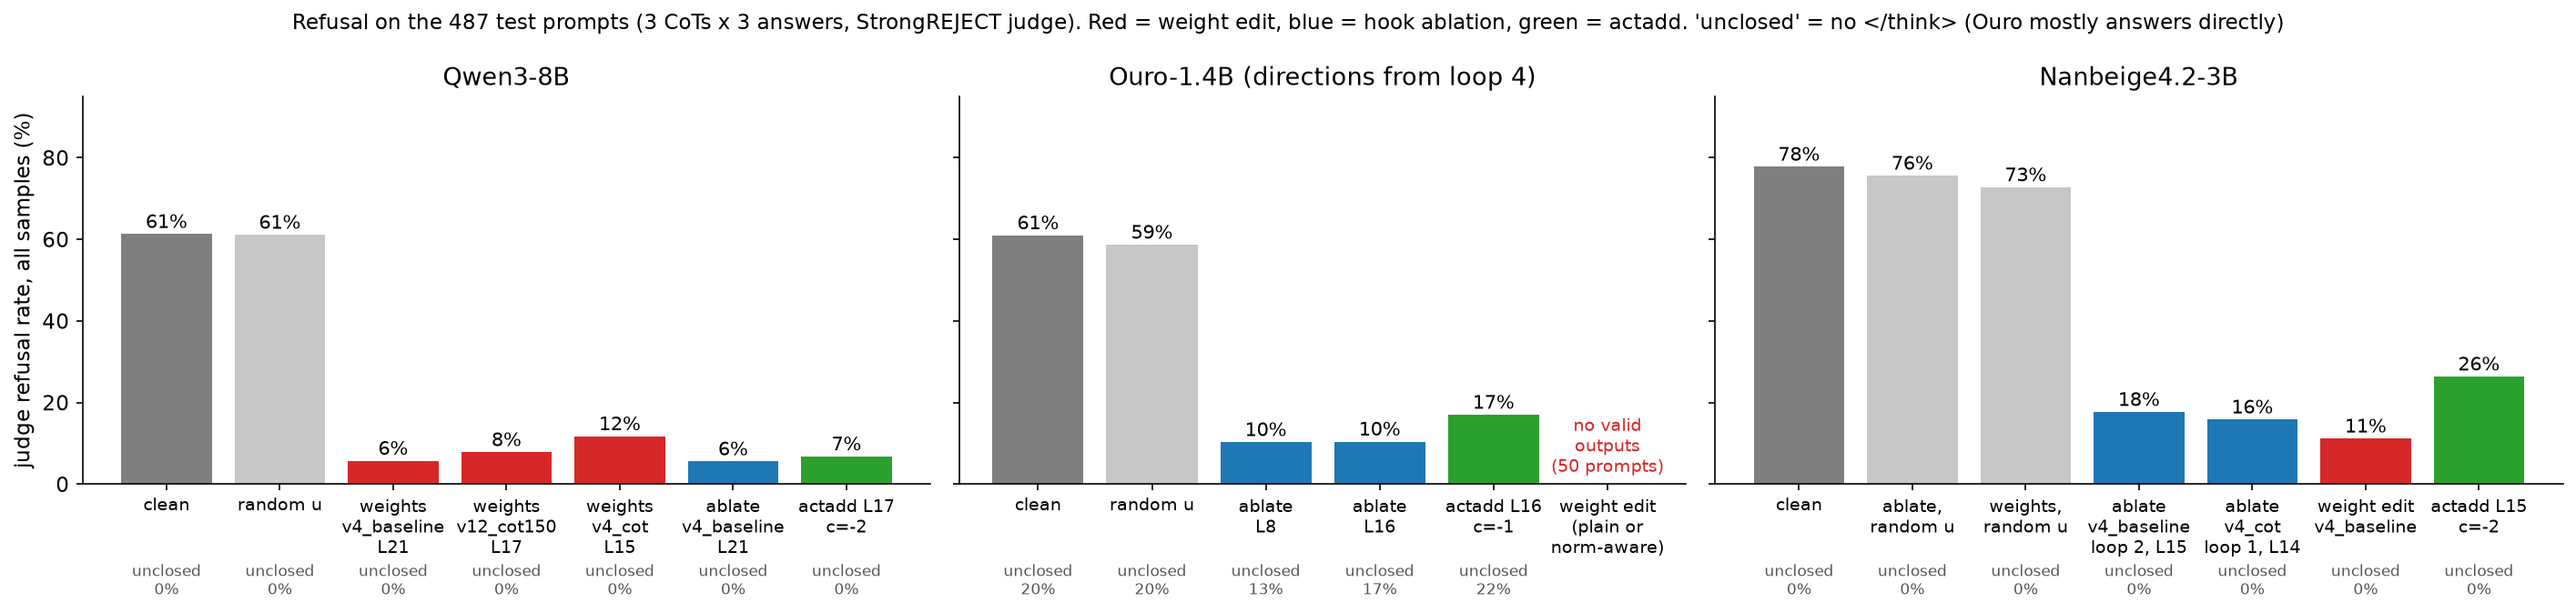
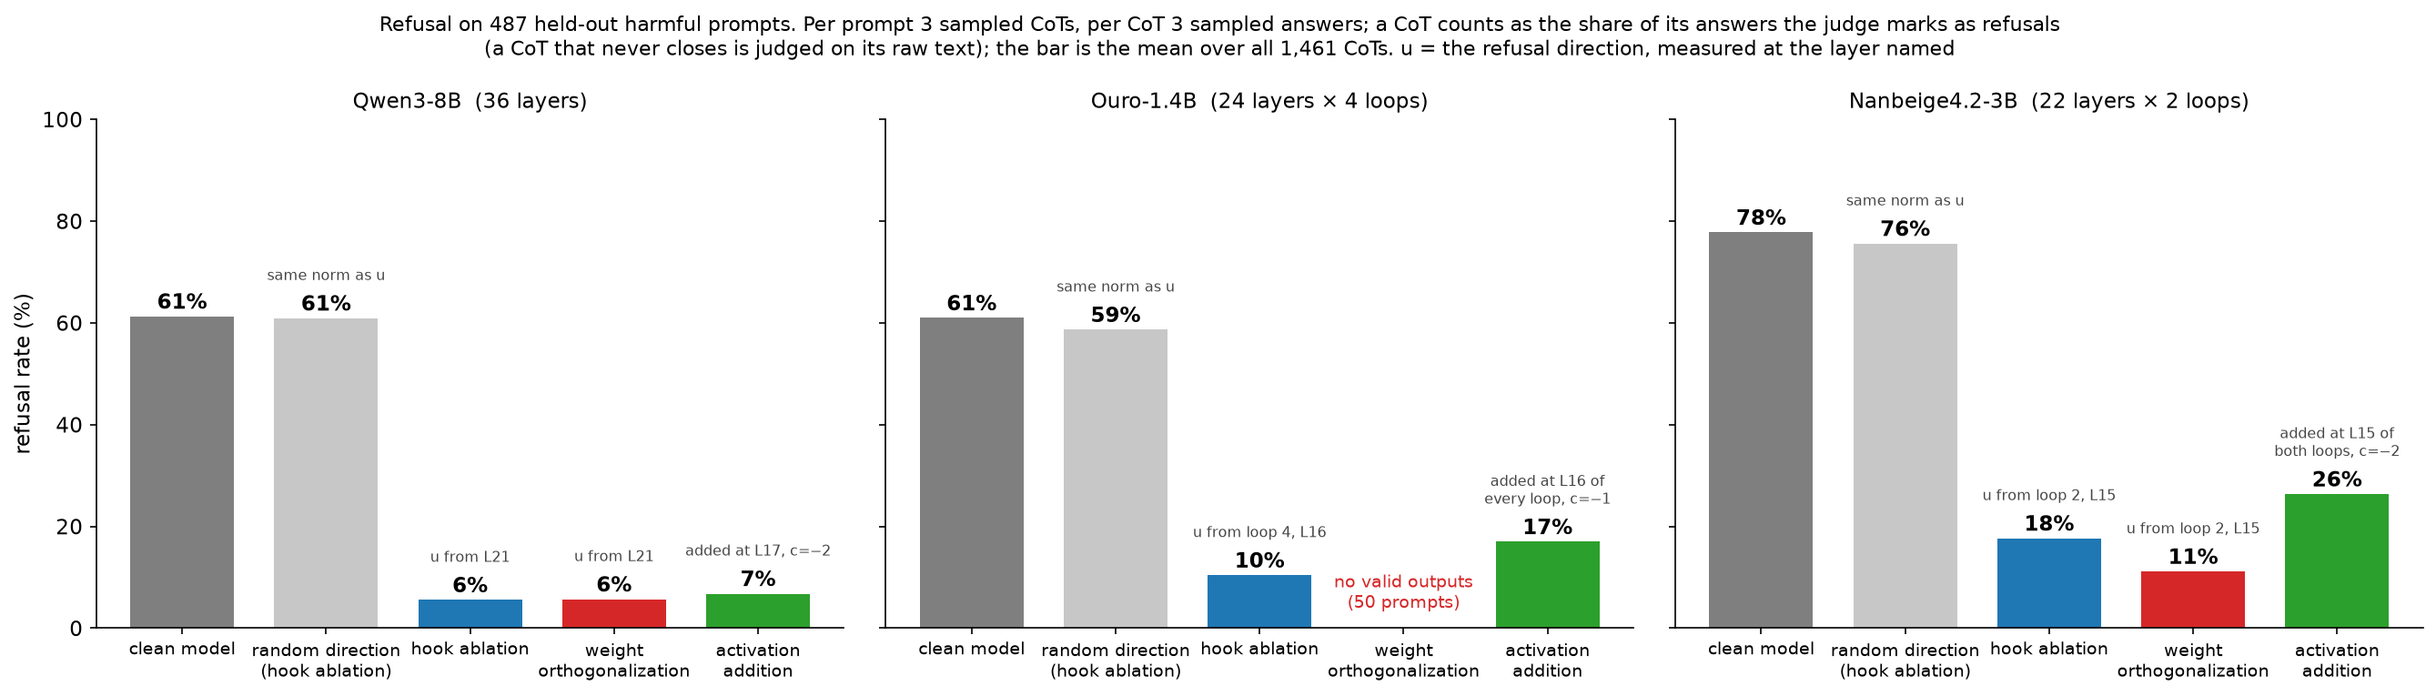
Deck: explain sites and the results figure; same columns for every model; held-out AUC vs random
- sites figure: CoT and prompt-end directions, held-out AUC per site along depth (loops shaded) against a random
  direction; analyze_directions.py: tie-aware AUC, random-direction AUC, n per class, undefined at layer 0 of the
  prompt-end window (identical template tokens)
- results figure: clean, random direction, hook ablation, weight ortho, actadd in the same order for each model,
  with where u was measured / where actadd is applied; caption says how the refusal rate is averaged
- deck: 'How we measure where refusal is readable' slide, rewritten results slide, gpt-oss validation numbers

diff --git a/scripts/make_presentation_figures.py b/scripts/make_presentation_figures.py
@@ -226,74 +226,93 @@ def _test_row(model, run, name, cap, ext=None):
 
 
 def fig_results():
+    """Same five columns in the same order for every model: the best test-set candidate of each intervention."""
     q, o, n = "Qwen3-8B", "Ouro-1.4B-Thinking", "Nanbeige4.2-3B"
-    # (label, summary row, kind); all on the 487 test prompts, 3 CoTs x 3 answers, continuations merged
+    cols = [("clean model", "clean"), ("random direction\n(hook ablation)", "random"), ("hook ablation", "hook"),
+            ("weight\northogonalization", "ortho"), ("activation\naddition", "actadd")]
+    # per model: (summary row or None, note under the bar) for each column
     data = {
-        "Qwen3-8B": [
-            ("clean", _test_row(q, "clean_test_8k", "none", 8192), "clean"),
-            ("random u", _test_row(q, "test_ortho", "ortho_random_l17", 2048, "test_ortho_ext"), "random"),
-            ("weights\nv4_baseline\nL21", _test_row(q, "test_ortho", "ortho_v4_baseline_l21", 2048, "test_ortho_ext"), "ortho"),
-            ("weights\nv12_cot150\nL17", _test_row(q, "test_ortho", "ortho_v12_cot150_l17", 2048, "test_ortho_ext"), "ortho"),
-            ("weights\nv4_cot\nL15", _test_row(q, "test_ortho", "ortho_v4_cot_l15", 2048, "test_ortho_ext"), "ortho"),
-            ("ablate\nv4_baseline\nL21", _test_row(q, "test_hooks", "ablate_v4_baseline_l21", 2048, "test_hooks_ext"), "hook"),
-            ("actadd L17\nc=-2", _test_row(q, "test_hooks", "actadd_v4_baseline_l17_c-2", 2048, "test_hooks_ext"), "actadd")],
-        "Ouro-1.4B (directions from loop 4)": [
-            ("clean", _test_row(o, "clean_test_8k", "none", 8192), "clean"),
-            ("random u", _test_row(o, "test_hooks", "ablate_random_t3.l16", 2048, "test_hooks_ext"), "random"),
-            ("ablate\nL8", _test_row(o, "test_hooks", "ablate_v4_baseline_t3.l8", 2048, "test_hooks_ext"), "hook"),
-            ("ablate\nL16", _test_row(o, "test_hooks", "ablate_v4_baseline_t3.l16", 2048, "test_hooks_ext"), "hook"),
-            ("actadd L16\nc=-1", _test_row(o, "test_loops", "actadd_v4_baseline_t3.l16_c-1", 2048, "test_loops_ext"), "actadd"),
-            ("weight edit\n(plain or\nnorm-aware)", None, "ortho")],
-        "Nanbeige4.2-3B": [
-            ("clean", _test_row(n, "clean_test", "none", 4096, "clean_test_ext"), "clean"),
-            ("ablate,\nrandom u", _test_row(n, "test_int", "ablate_random_t0.l14", 4096, "test_int_ext"), "random"),
-            ("weights,\nrandom u", _test_row(n, "test_int", "ortho_random_t0.l14", 4096, "test_int_ext"), "random"),
-            ("ablate\nv4_baseline\nloop 2, L15", _test_row(n, "test_int", "ablate_v4_baseline_t1.l15", 4096, "test_int_ext"), "hook"),
-            ("ablate\nv4_cot\nloop 1, L14", _test_row(n, "test_int", "ablate_v4_cot_t0.l14", 4096, "test_int_ext"), "hook"),
-            ("weight edit\nv4_baseline", _test_row(n, "test_int", "ortho_v4_baseline_t1.l15", 4096, "test_int_ext"), "ortho"),
-            ("actadd L15\nc=-2", _test_row(n, "test_loops", "actadd_v4_baseline_t1.l15_c-2", 4096, "test_loops_ext"), "actadd")],
+        "Qwen3-8B  (36 layers)": [
+            (_test_row(q, "clean_test_8k", "none", 8192), ""),
+            (_test_row(q, "test_hooks", "ablate_random_l17", 2048, "test_hooks_ext"), "same norm as u"),
+            (_test_row(q, "test_hooks", "ablate_v4_baseline_l21", 2048, "test_hooks_ext"), "u from L21"),
+            (_test_row(q, "test_ortho", "ortho_v4_baseline_l21", 2048, "test_ortho_ext"), "u from L21"),
+            (_test_row(q, "test_hooks", "actadd_v4_baseline_l17_c-2", 2048, "test_hooks_ext"), "added at L17, c=−2")],
+        "Ouro-1.4B  (24 layers × 4 loops)": [
+            (_test_row(o, "clean_test_8k", "none", 8192), ""),
+            (_test_row(o, "test_hooks", "ablate_random_t3.l16", 2048, "test_hooks_ext"), "same norm as u"),
+            (_test_row(o, "test_hooks", "ablate_v4_baseline_t3.l16", 2048, "test_hooks_ext"), "u from loop 4, L16"),
+            (None, "no valid outputs\n(50 prompts)"),
+            (_test_row(o, "test_loops", "actadd_v4_baseline_t3.l16_c-1", 2048, "test_loops_ext"),
+             "added at L16 of\nevery loop, c=−1")],
+        "Nanbeige4.2-3B  (22 layers × 2 loops)": [
+            (_test_row(n, "clean_test", "none", 4096, "clean_test_ext"), ""),
+            (_test_row(n, "test_int", "ablate_random_t0.l14", 4096, "test_int_ext"), "same norm as u"),
+            (_test_row(n, "test_int", "ablate_v4_baseline_t1.l15", 4096, "test_int_ext"), "u from loop 2, L15"),
+            (_test_row(n, "test_int", "ortho_v4_baseline_t1.l15", 4096, "test_int_ext"), "u from loop 2, L15"),
+            (_test_row(n, "test_loops", "actadd_v4_baseline_t1.l15_c-2", 4096, "test_loops_ext"),
+             "added at L15 of\nboth loops, c=−2")],
     }
-    fig, axes = plt.subplots(1, 3, figsize=(19, 4.8), gridspec_kw={"width_ratios": [7, 6, 7]}, sharey=True)
+    fig, axes = plt.subplots(1, 3, figsize=(18, 5.2), sharey=True)
+    x = np.arange(len(cols))
     for ax, (model, rows) in zip(axes, data.items()):
-        x = np.arange(len(rows))
-        ref = [np.nan if r is None else 100 * r["all_refusal"] for _, r, _ in rows]
-        ax.bar(x, np.nan_to_num(ref), color=[C[k] for _, _, k in rows])
-        for i, (_, r, _) in enumerate(rows):
+        for i, ((_, kind), (r, note)) in enumerate(zip(cols, rows)):
             if r is None:
-                ax.text(i, 3, "no valid\noutputs\n(50 prompts)", ha="center", color=C["ortho"], fontsize=9)
+                ax.text(i, 4, note, ha="center", color=C["ortho"], fontsize=9)
                 continue
-            ax.text(i, ref[i] + 1.5, f"{ref[i]:.0f}%", ha="center", fontsize=10)
-            ax.text(i, -27, f"unclosed\n{100 * r['invalid_cot_frac']:.0f}%", ha="center", fontsize=8, color="#555")
-        ax.set_xticks(x); ax.set_xticklabels([lab for lab, _, _ in rows], fontsize=9)
-        ax.set_title(model); ax.set_ylim(0, 95)
-    axes[0].set_ylabel("judge refusal rate, all samples (%)")
-    fig.suptitle("Refusal on the 487 test prompts (3 CoTs x 3 answers, StrongREJECT judge). "
-                 "Red = weight edit, blue = hook ablation, green = actadd. 'unclosed' = no </think> (Ouro mostly answers directly)", fontsize=11)
+            v = 100 * r["all_refusal"]
+            ax.bar(i, v, color=C[kind], width=0.72)
+            ax.text(i, v + 1.5, f"{v:.0f}%", ha="center", fontsize=11, weight="bold")
+            if note:
+                ax.text(i, v + 7.5, note, ha="center", fontsize=7.8, color="#444")
+        ax.set_xticks(x); ax.set_xticklabels([c for c, _ in cols], fontsize=9)
+        ax.set_title(model, fontsize=11); ax.set_ylim(0, 100)
+    axes[0].set_ylabel("refusal rate (%)")
+    fig.suptitle("Refusal on 487 held-out harmful prompts. Per prompt 3 sampled CoTs, per CoT 3 sampled answers; a CoT counts "
+                 "as the share of its answers the judge marks as refusals\n(a CoT that never closes is judged on its raw "
+                 "text); the bar is the mean over all 1,461 CoTs. u = the refusal direction, measured at the layer named",
+                 fontsize=10.5)
     fig.tight_layout()
     fig.savefig(OUT / "results.png", dpi=150, bbox_inches="tight"); plt.close(fig)
 
 
 # ---------------------------------------------------------------- 6. where the direction lives
 def fig_sites():
-    models = [("Qwen3-8B", "Qwen3-8B"), ("Ouro-1.4B-Thinking", "Ouro-1.4B (4 loops)"),
-              ("Nanbeige4.2-3B", "Nanbeige4.2-3B (2 loops)")]
-    fig, axes = plt.subplots(1, 3, figsize=(14, 3.8), sharey=True)
-    cmap = plt.get_cmap("viridis")
-    for ax, (m, title) in zip(axes, models):
-        a = pd.read_csv(RUNS / m / "analysis" / "v4_cot_sites.csv")
-        if "loop" not in a:
-            a["loop"] = 0
-        T = a.loop.max() + 1
-        for t in range(T):
-            s = a[a.loop == t].sort_values("layer")
-            ax.plot(s.layer, s.auc, marker=".", color=cmap(t / max(T - 1, 1)) if T > 1 else "k",
-                    label=f"loop {t + 1}" if T > 1 else None)
-        ax.set_title(title); ax.set_xlabel("layer")
-        if T > 1:
-            ax.legend(fontsize=9)
-    axes[0].set_ylabel("AUC: refusing vs complying CoTs\n(projection on direction)")
-    fig.suptitle("Whole-CoT direction separates refusing from complying CoTs at almost every site", fontsize=11)
-    fig.tight_layout()
+    """Held-out AUC of the refusal direction at every site, for both windows, against a random direction."""
+    models = [("Qwen3-8B", "Qwen3-8B (36 layers)"), ("Ouro-1.4B-Thinking", "Ouro-1.4B (24 layers × 4 loops)"),
+              ("Nanbeige4.2-3B", "Nanbeige4.2-3B (22 layers × 2 loops)")]
+    windows = [("v4_cot", "CoT direction: activations averaged over all CoT tokens, CoT labels", "CoTs"),
+               ("v4_baseline", "Prompt-end direction: activations averaged over the template tokens before thinking, "
+                               "prompt labels", "prompts")]
+    fig, axes = plt.subplots(2, 3, figsize=(17, 7.4), sharey=True, gridspec_kw={"width_ratios": [36, 96, 44]})
+    for i, (meth, wtitle, unit) in enumerate(windows):
+        for j, (m, title) in enumerate(models):
+            ax = axes[i, j]
+            a = pd.read_csv(RUNS / m / "analysis" / f"{meth}_sites.csv")
+            L = a.layer.max() + 1
+            a["x"] = a.loop * L + a.layer
+            a = a.sort_values("x")
+            T = a.loop.max() + 1
+            for t in range(T):
+                if t % 2:
+                    ax.axvspan(t * L - 0.5, (t + 1) * L - 0.5, color="#f2f2f2", zorder=0)
+                if T > 1:
+                    ax.text(t * L + L / 2, 0.42, f"loop {t + 1}", ha="center", fontsize=9, color="#666")
+            ax.plot(a.x, a.auc, color=C["hook"], lw=1.8, label="refusal direction")
+            ax.plot(a.x, a.auc_random, color="#999", lw=1.0, label="random direction (chance reference)")
+            ax.axhline(0.5, color="#ccc", lw=0.8, ls=":")
+            ax.set_ylim(0.38, 1.02); ax.set_xlim(-0.5, T * L - 0.5)
+            ax.set_xlabel("layer (loop by loop)" if T > 1 else "layer")
+            ax.set_title(f"{title}\nn = {a.n_ref.iloc[0]} refusing / {a.n_non.iloc[0]} complying {unit}", fontsize=9.5)
+        axes[i, 0].set_ylabel("held-out AUC")
+
+    axes[0, 0].legend(fontsize=8.5, loc="lower right")
+    fig.suptitle("Is refusal linearly readable at each site? Direction from half of the training prompts, AUC of the "
+                 "projection on the other half (1 = perfect separation, 0.5 = chance)", fontsize=11)
+    fig.subplots_adjust(left=0.05, right=0.99, top=0.83, bottom=0.08, hspace=0.75, wspace=0.06)
+    for i, (_, wtitle, _) in enumerate(windows):
+        pos = axes[i, 0].get_position()
+        fig.text(pos.x0, pos.y1 + 0.085, f"{'AB'[i]}. {wtitle}", fontsize=11, weight="bold")
     fig.savefig(OUT / "sites.png", dpi=150); plt.close(fig)
 
 

diff --git a/scripts/analyze_directions.py b/scripts/analyze_directions.py
@@ -6,6 +6,8 @@ Splits labeled examples by prompt into two halves A/B. For every (loop, layer):
   splithalf   cosine(dir_A, dir_B)                       -- stability
   auc         AUC of projection onto dir_A, evaluated on B -- held-out separability
   dprime      (mu_ref - mu_non) / pooled sd of projections on B
+  auc_random  AUC of the projection onto a random unit direction (same split): the chance reference. Activations carry
+              many features, so a random direction can separate a little; the refusal direction should do far better
 Also plots cosine similarity of the full-data direction across all sites.
 Writes ``analysis/<method>_sites.csv`` and ``figures/<method>_*.png`` under the run dir.
 """
@@ -25,10 +27,10 @@ LABEL_WINDOW = {
 
 
 def auc(pos, neg):
-    """Mann-Whitney AUC: P(score(pos) > score(neg))."""
-    s = np.concatenate([pos, neg])
-    ranks = s.argsort().argsort() + 1
-    return (ranks[: len(pos)].sum() - len(pos) * (len(pos) + 1) / 2) / (len(pos) * len(neg))
+    """Mann-Whitney AUC: P(score(pos) > score(neg)), ties counted 1/2 (identical inputs, e.g. the template tokens at
+    layer 0, give 0.5 rather than an arbitrary value)."""
+    d = pos[:, None] - neg[None, :]
+    return float((d > 0).mean() + 0.5 * (d == 0).mean())
 
 
 def main():
@@ -61,6 +63,10 @@ def main():
     dir_a, dir_b = mean_diff(idx[in_a], y[in_a]), mean_diff(idx[~in_a], y[~in_a])
     unit_a = dir_a / dir_a.norm(dim=-1, keepdim=True)
     proj_b = torch.einsum("nsd,sd->ns", X[idx[~in_a]], unit_a).numpy()  # [N_B, S]
+    g = torch.Generator().manual_seed(args.seed)
+    rnd = torch.randn(X.shape[1], X.shape[2], generator=g)
+    rnd = rnd / rnd.norm(dim=-1, keepdim=True)
+    proj_r = torch.einsum("nsd,sd->ns", X[idx[~in_a]], rnd).numpy()
     yb = y[~in_a]
 
     rows = []
@@ -70,7 +76,11 @@ def main():
         rows.append({
             "loop": loop, "layer": layer, "norm": float(full[s].norm()),
             "splithalf": float(torch.nn.functional.cosine_similarity(dir_a[s], dir_b[s], dim=0)),
-            "auc": auc(pr, pn), "dprime": (pr.mean() - pn.mean()) / pooled,
+            # no direction where the window's inputs are identical for every example (template tokens at layer 0)
+            "auc": auc(pr, pn) if float(dir_a[s].norm()) > 1e-4 else float("nan"),
+            "dprime": (pr.mean() - pn.mean()) / pooled,
+            "auc_random": max(a := auc(proj_r[yb, s], proj_r[~yb, s]), 1 - a),  # sign of a random direction is arbitrary
+            "n_ref": int(y.sum()), "n_non": int((~y).sum()),
         })
     table = pd.DataFrame(rows)
     (rd / "analysis").mkdir(exist_ok=True)

diff --git a/docs/presentation.md b/docs/presentation.md
@@ -106,12 +106,35 @@ Each intervention gets its own screen on the 50 selection prompts; the winner go
 
 ---
 
-## A refusal direction exists at almost every site
+## How we measure where refusal is readable
 
-![w:1100](figures/sites.png)
+A **site** is one place in the residual stream: the vector entering decoder layer *l* during loop *t*. Qwen has 36 sites,
+Ouro 24 layers × 4 loops = 96, Nanbeige 22 × 2 = 44 (see the model figure). At every site:
 
-- All three models carry a linearly separable refusal signal (AUC 0.93–0.99) at nearly every (loop, layer).
-- In both looped models every loop after the first looks alike; loop 1 is where the signal builds up.
+1. **Average** the residual stream of each training example over a token window: the **CoT window** (all thinking
+   tokens) or the **prompt-end window** (the template tokens between the user message and the start of thinking).
+2. **Label** examples refusing or complying from the judged answers (a CoT: all 3 answers score < 0.2 / > 0.8; a
+   prompt: ≥ 75% of its answers).
+3. **Split** the training prompts into halves A and B. Direction from A: mean(refusing) − mean(complying).
+4. **Score** on B: project every B example onto the direction; **AUC** = probability that a random refusing example
+   projects higher than a random complying one (1 = perfect separation, 0.5 = chance).
+5. **Reference:** the same AUC for a random unit direction.
+
+"Linearly separable" here means: one direction, fixed on half the data, tells refusing from complying examples apart on
+the other half. It measures **readability**, not cause; the ablations test cause.
+
+---
+
+## Refusal is readable at almost every site
+
+![w:1150](figures/sites.png)
+
+- **A. CoT window:** AUC 0.93–0.99 at every site of all three models; random directions reach 0.6–0.7 typically, up to
+  0.97 at a few sites (refusing and complying CoTs differ in content, so even random directions sometimes separate them).
+- **B. Prompt-end window, before any thinking:** refusal is already readable (AUC 0.93–0.97 after the first 12–20
+  layers). In the looped models it rises through loop 1–2 and stays flat afterwards.
+- So a single direction carries the refusal signal everywhere, and the model's decision is largely readable before the
+  CoT starts. Layer 0 of the prompt-end window is undefined (identical template tokens for every prompt).
 
 ---
 
@@ -119,12 +142,20 @@ Each intervention gets its own screen on the 50 selection prompts; the winner go
 
 ![w:1150](figures/results.png)
 
-- **Qwen:** all three interventions work (61% → 6–12%).
-- **Ouro:** hook ablation works (61% → 10%), actadd 17%. **Weight ortho gives no valid outputs**, even with a
-  random direction, and the norm-aware edit still leaves 99% of CoTs unclosed (50 prompts).
-- **Nanbeige:** hooks and weight ortho both work (78% → 11–18%), actadd 26%. Random directions do nothing.
+**What a bar is:** 487 held-out harmful prompts × 3 sampled CoTs = 1,461 CoTs, each followed by 3 sampled answers. A CoT
+scores the share of its answers the judge marks as refusals (a CoT that never closes is judged once on its raw text);
+the bar is the mean over all 1,461 CoTs, so every prompt weighs the same.
 
-**Inference:** the method transfers to looped models, but only interventions that act after every norm (hooks).
+**Columns** (same order for every model): clean model · a **random direction** of the same norm ablated with hooks
+(control: removing just any direction should not stop refusal) · **hook ablation** of the refusal direction `u` ·
+**weight orthogonalization** with `u` · **activation addition** of −`c`·`r` at one layer. `u` is the selection winner;
+"u from loop 4, L16" means it was measured at layer 16 during Ouro's 4th loop and is then removed at every layer of
+every loop.
+
+- **Qwen:** all three interventions work (61% → 6–7%). **Ouro:** hooks 10%, actadd 17%; the weight edit gives no valid
+  outputs (50 prompts, so not run on the test set). **Nanbeige:** hooks 18%, weight edit 11%, actadd 26%. Random
+  directions change nothing (Nanbeige weight edit with a random direction: 73%).
+- **Inference:** the method transfers to looped models, but only interventions that act after every norm (hooks).
 
 ---
 
@@ -314,13 +345,15 @@ Logit lens on clean traces (decode each loop's output directly):
   measured and ablated exactly as in a dense model. **Hooks** act on that sum, whatever the routing.
 - **Weight ortho** must edit **all 32 experts** in every layer (any of them can be routed to), plus `o_proj` and the
   embedding: then every possible sum is ⊥ `u`. The router reads the stream; it changes the same way under hooks.
-- **Biases:** gpt-oss has biases on `o_proj` and on every expert, which write a constant along `u`. Upstream's edit
-  leaves them: with a random `u` it leaves 20% of the clean projection in the stream; editing them too leaves ≈ 0.
+- **Biases:** gpt-oss has biases on `o_proj` and on every expert (up to 54 along `u`), which write a constant along
+  `u`. With the refusal direction (end-of-prompt, L15), upstream's edit leaves 6% of the clean projection in the stream;
+  editing the biases too leaves 0.2%, as hooks do. Log-probs: weight edit vs hooks 0.13 (bf16 noise; clean vs hooks
+  0.87), upstream edit vs hooks 0.19. The in-place edit gives the same numbers in vLLM.
 - **MXFP4:** the experts ship as 4-bit blocks. The edit only exists in bf16 (we run a bf16 copy); re-quantizing the
-  edited experts brings back 74% of their write along a random `u`.
+  edited experts brings back 63% of their write along `u`.
 - Upstream (v4) on gpt-oss: refusal 93% → 3.5% (CoT direction, L19) / 7% (end-of-prompt, L15), the latter with 40%
-  incomplete generations. **Running:** clean data and directions, a layer screen (7–21) for both windows, actadd, and
-  weight edits with and without biases.
+  incomplete generations. Ours so far: clean refusal 91% (500 train prompts); 1,359 refusing vs 128 complying CoTs.
+  **Running:** layer screen (7–21) for both windows, actadd, weight edits with and without biases.
 
 ---
 
